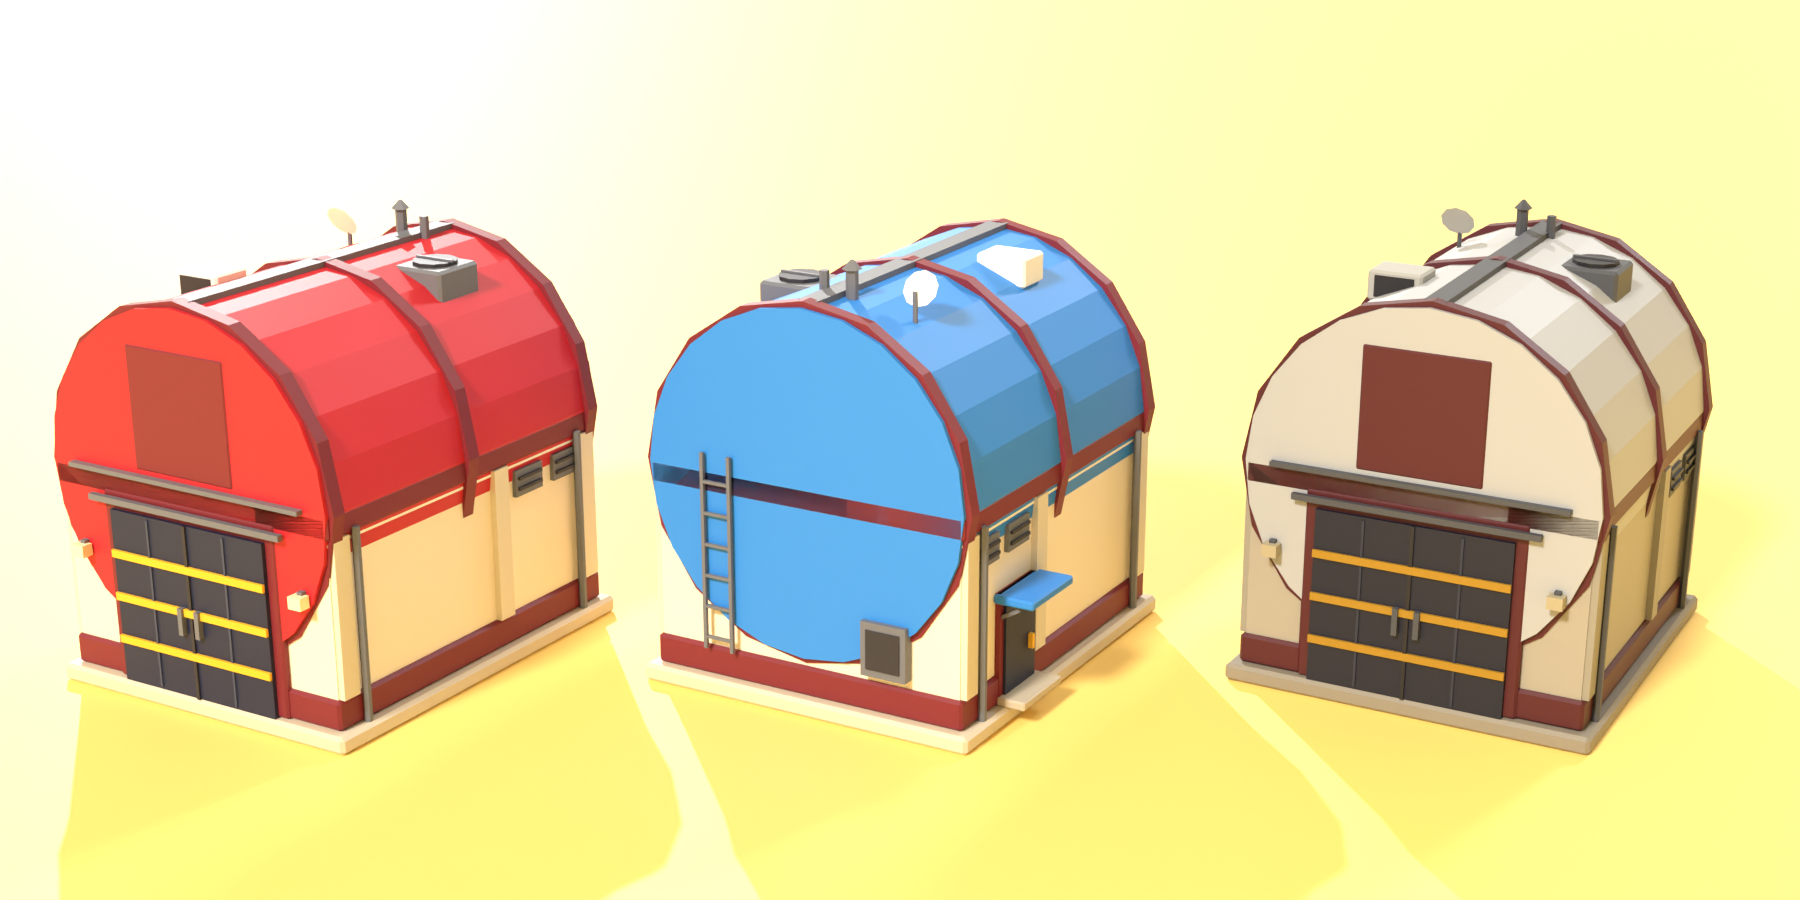
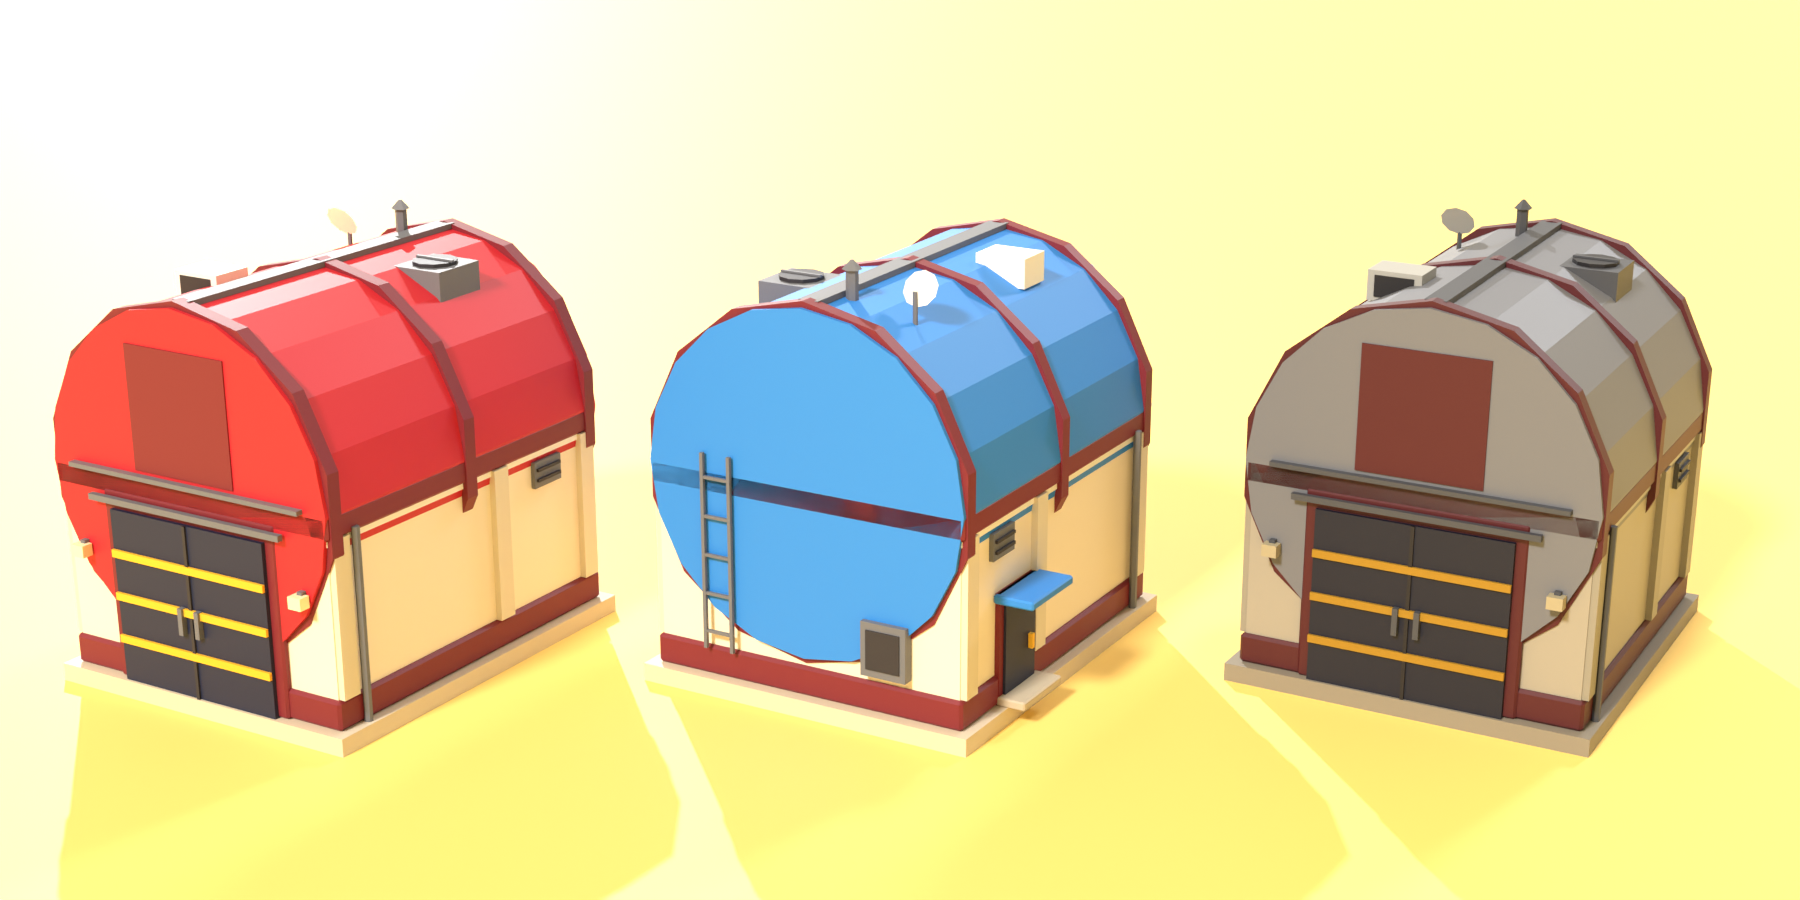
Stage mesh v2: 1,176 triangles (was 1,536), new asset ids

diff --git a/art/blender/lot_stage_kit.py b/art/blender/lot_stage_kit.py
@@ -53,7 +53,7 @@ def louvre(x, y, z):
 
 def stage_body():
     s = [
-        BV((0, 0, 0.3), (W + 1, D + 1, 0.6), "Paving", 0.12),
+        B((0, 0, 0.3), (W + 1, D + 1, 0.6), "Paving"),
         B((0, 0, 0.6 + H / 2), (W, D, H), "Cream"),
         BV((0, 0, 1.1), (W + 0.3, D + 0.3, 1), "Burgundy"),
         BV((0, 0, TOP - 0.4), (W + 0.4, D + 0.4, 0.8), "Burgundy"),
@@ -61,17 +61,16 @@ def stage_body():
     ]
     # Roof ribs.
     for y in (FRONT + 0.2, 0, -FRONT - 0.2):
-        s.append(C((0, y, TOP), R + 0.2, 0.5, "Burgundy", rot=(90, 0, 0), seg=16))
+        s.append(C((0, y, TOP), R + 0.2, 0.5, "Burgundy", rot=(90, 0, 0), seg=14))
     s.append(B((0, 0, TOP + R + 0.05), (0.7, D - 0.6, 0.2), "Steel"))  # ridge cap
     # Pilasters on the corners and the side walls.
     pil = shade("Cream", 0.08)
     for x in (-1, 1):
         for y in (FRONT + 0.4, -FRONT - 0.4, 1.5):
             s.append(B((x * (W / 2 + 0.1), y, 4.2), (0.25, 0.7, 5.2), pil))
-        for y in (3.0, 5.0):
-            s += louvre(x * W / 2, y, 6.0)
+        s += louvre(x * W / 2, 4.0, 6.0)
         # Downpipes at the front and back corners.
-        for y in (FRONT + 1.0, -FRONT - 1.0):
+        for y in (FRONT + 1.0,):
             s.append(C((x * (W / 2 + 0.25), y, 3.8), 0.14, 6.4, "Steel", seg=6))
     # Big sliding door.
     s += [
@@ -80,8 +79,6 @@ def stage_body():
         B((0, FRONT - 0.42, 3.5), (0.12, 0.1, 5.8), "Charcoal"),
         B((0, FRONT - 0.4, 6.72), (8.0, 0.2, 0.2), "Steel"),  # track
     ]
-    for x in (-1.6, 1.6):
-        s.append(B((x, FRONT - 0.42, 3.5), (0.08, 0.06, 5.6), shade("Navy", -0.15)))
     for i in (1, 2, 3):
         s.append(B((0, FRONT - 0.45, 0.6 + i * 1.45), (6.4, 0.1, 0.25), "Gold"))
     for x in (-0.35, 0.35):
@@ -93,7 +90,7 @@ def stage_body():
             B((x, FRONT - 0.45, 4.8), (0.5, 0.4, 0.4), "Light"),
         ]
     # Number plate frame on the roof front (the gold plate itself is a part).
-    s.append(BV((0, FRONT - 0.15, TOP + 2.3), (4.1, 0.2, 4.1), "Burgundy", 0.08))
+    s.append(B((0, FRONT - 0.15, TOP + 2.3), (4.1, 0.2, 4.1), "Burgundy"))
     s.append(B((0, FRONT - 0.25, TOP + 0.05), (9.6, 0.4, 0.15), "Steel"))  # light strip ledge
     # Side door (Roblox +x) with a step.
     s += [
@@ -102,27 +99,24 @@ def stage_body():
         B((-W / 2 - 0.35, 2.4, 2.2), (0.15, 0.15, 0.5), "Gold"),
         BV((-W / 2 - 0.6, 3, 0.75), (1.0, 2.6, 0.3), shade("Paving", 0.1), 0.05),
     ]
-    for y in (1.9, 4.1):
-        s.append(B((-W / 2 - 0.45, y, 3.7), (0.8, 0.12, 0.12), "Steel", rot=(0, 30, 0)))
     # Back wall: ladder to the roof and a breaker box.
     for x in (2.6, 3.6):
         s.append(B((x, -FRONT + 0.35, 4.9), (0.12, 0.12, 6.6), "Steel"))
-    for k in range(6):
-        s.append(B((3.1, -FRONT + 0.35, 2.0 + k * 1.05), (1.0, 0.1, 0.1), "Steel"))
+    for k in range(5):
+        s.append(B((3.1, -FRONT + 0.35, 2.2 + k * 1.3), (1.0, 0.1, 0.1), "Steel"))
     s += [
         B((-3.0, -FRONT + 0.2, 2.8), (1.6, 0.4, 1.8), "Steel"),
         B((-3.0, -FRONT + 0.42, 2.8), (1.2, 0.05, 1.3), "Charcoal"),
     ]
     # Rooftop clutter.
     s += [
-        BV((2.5, 2.6, 12.4), (2, 2, 1.3), "Steel", 0.1),
+        B((2.5, 2.6, 12.4), (2, 2, 1.3), "Steel"),
         C((2.5, 2.6, 13.1), 0.75, 0.15, "Charcoal", seg=10),
         B((2.5, 2.6, 13.2), (1.5, 0.12, 0.08), "Steel"),
-        BV((-2.3, -2.6, 12.9), (1.8, 1.4, 1.0), "OffWhite", 0.08),
+        B((-2.3, -2.6, 12.9), (1.8, 1.4, 1.0), "OffWhite"),
         B((-2.3, -3.32, 12.9), (1.3, 0.05, 0.7), "Charcoal"),
         C((-0.6, 4.6, 13.6), 0.2, 1.2, "Steel", seg=6),
         K((-0.6, 4.6, 14.3), 0.32, 0.05, 0.3, "Steel", seg=6),
-        C((0.4, 4.6, 13.5), 0.16, 1.0, "Steel", seg=6),
         C((-2.6, 4.2, 13.0), 0.08, 1.2, "Steel", seg=6),
         K((-2.6, 4.0, 13.7), 0.6, 0.15, 0.3, "OffWhite", rot=(-60, 0, 0), seg=10),
     ]
@@ -131,7 +125,7 @@ def stage_body():
 
 def stage_accent():
     return [
-        C((0, 0, TOP), R, D + 0.4, WHITE, rot=(90, 0, 0), seg=24),
+        C((0, 0, TOP), R, D + 0.4, WHITE, rot=(90, 0, 0), seg=20),
         BV((-W / 2 - 0.7, 3, 4.2), (1.4, 2.8, 0.3), WHITE, 0.06),
     ]
 
@@ -148,11 +142,9 @@ def roblox_bounds(obj):
 
 def tint(obj, color):
     """Preview only: multiply every material by a color (what MeshPart.Color does in Roblox)."""
-    for i, mat in enumerate(obj.data.materials):
-        m = mat.copy()
-        base = m.node_tree.nodes["Principled BSDF"].inputs["Base Color"]
+    for mat in obj.data.materials:
+        base = mat.node_tree.nodes["Principled BSDF"].inputs["Base Color"]
         base.default_value = [a * b for a, b in zip(base.default_value[:3], color)] + [1]
-        obj.data.materials[i] = m
 
 
 def main():
@@ -181,7 +173,7 @@ def main():
     if os.environ.get("KIT_NO_RENDER"):
         return
 
-    # Preview: a red and a blue owned stage (front three-quarter), a free grey one, and the back.
+    # Preview: a red owned stage, a blue one from the back, and a free one (grey, steel roof).
     import math
 
     bpy.ops.wm.read_factory_settings(use_empty=True)
@@ -192,7 +184,7 @@ def main():
         for name, builder in KIT:
             o, _ = map_kit.build(name, builder, lift_to_ground=False)
             if all_tint is not None:
-                tint(o, all_tint)
+                tint(o, all_tint if name == "LotStage" else mmkit.hex_to_linear("#6E7078")[:3])
             elif name == "LotStageAccent":
                 tint(o, mmkit.hex_to_linear(accent)[:3])
             o.location = (STUD * (k - 1) * 19, 0, 0)

diff --git a/art/README.md b/art/README.md
@@ -139,7 +139,7 @@ Rojo only manages `ReplicatedStorage.Shared`, so it leaves the `LotMeshes` folde
 look, two meshes. `LotStage` is the hangar with its baked colors; `LotStageAccent` (the barrel
 roof and side canopy) is white, and the game tints it with the lot's color. A free lot's stage
 uses the same meshes tinted grey (steel roof). The number plates, ON AIR and the light strip stay small parts;
-invisible boxes do the collisions. Imported as the model `lot_stage_kit` (asset 114573434970872)
+invisible boxes do the collisions. Imported as the model `lot_stage_kit` (asset 90871466415628)
 in `ReplicatedStorage > LotMeshes`. Without it, `LotModels.soundStage` builds the part version.
 If you change the shapes, update `STAGE_MESH` in `LotModels.luau` from the sizes the script prints.
 
